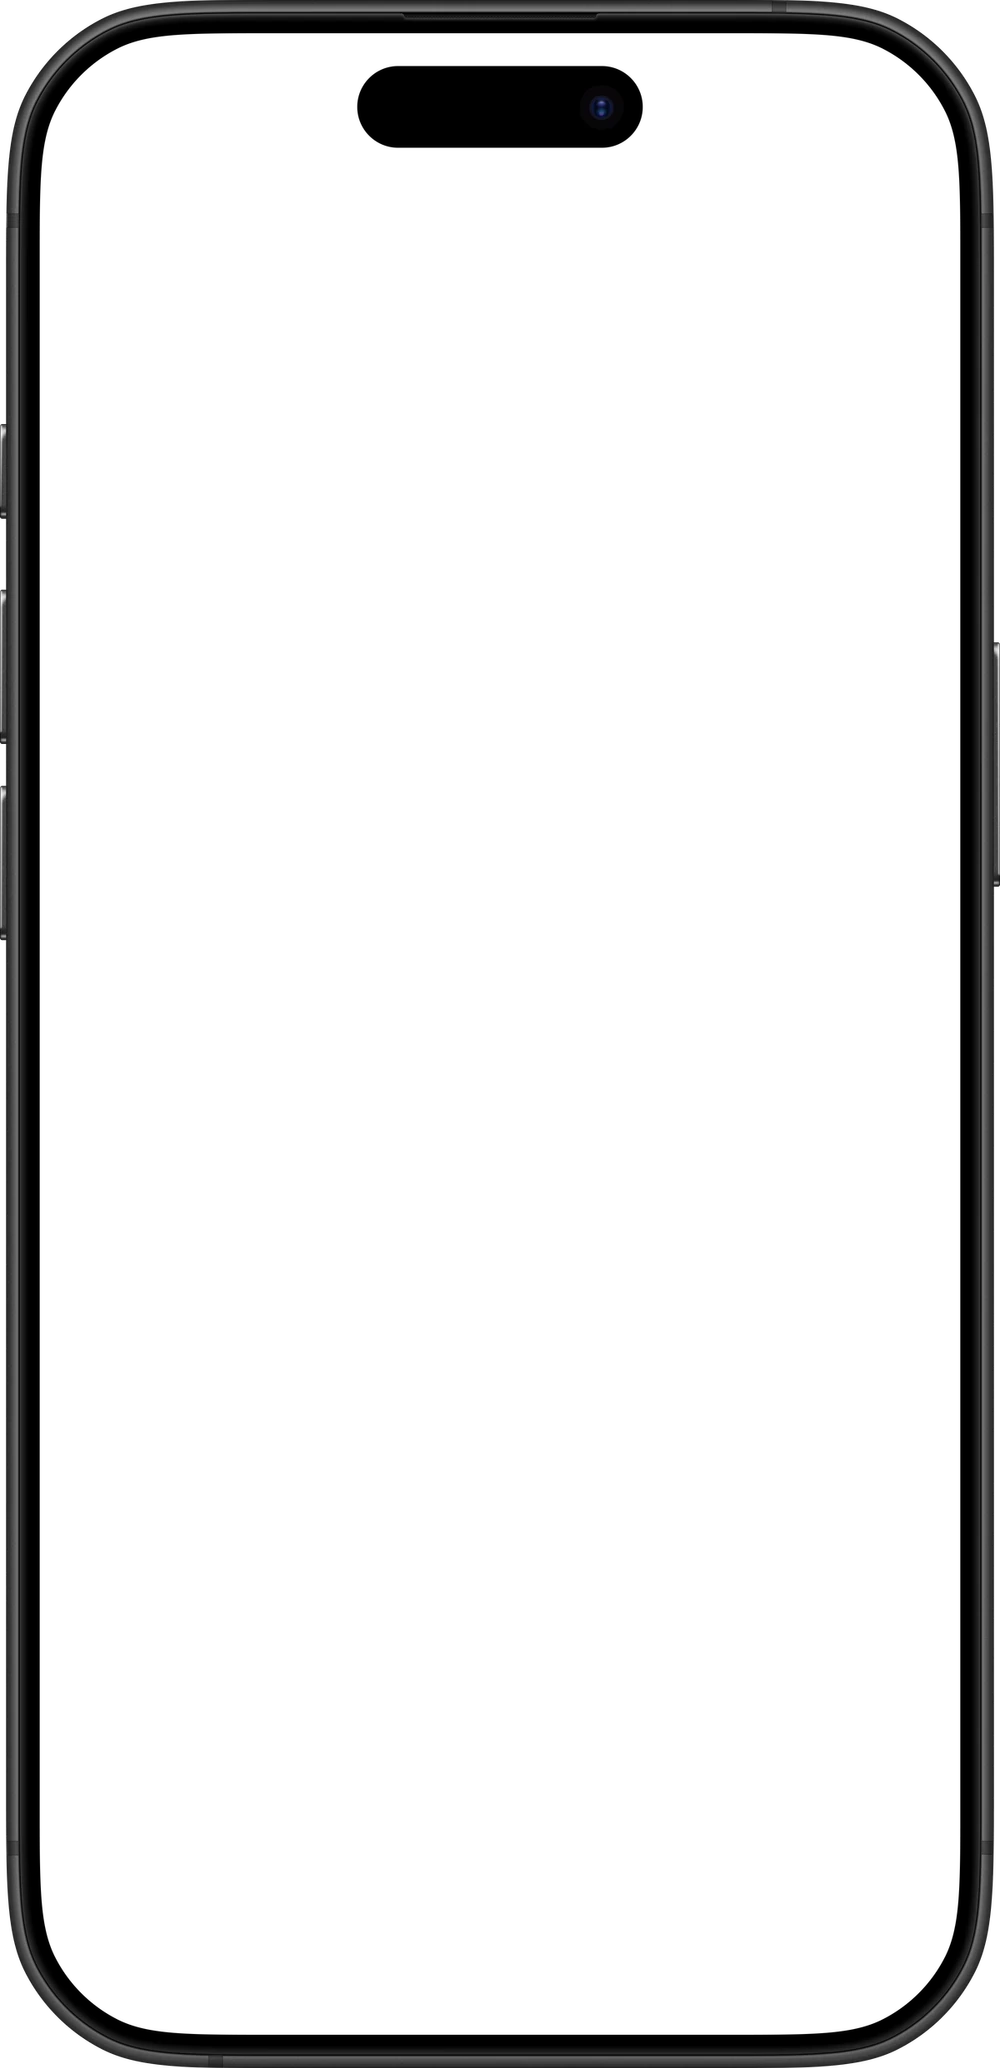
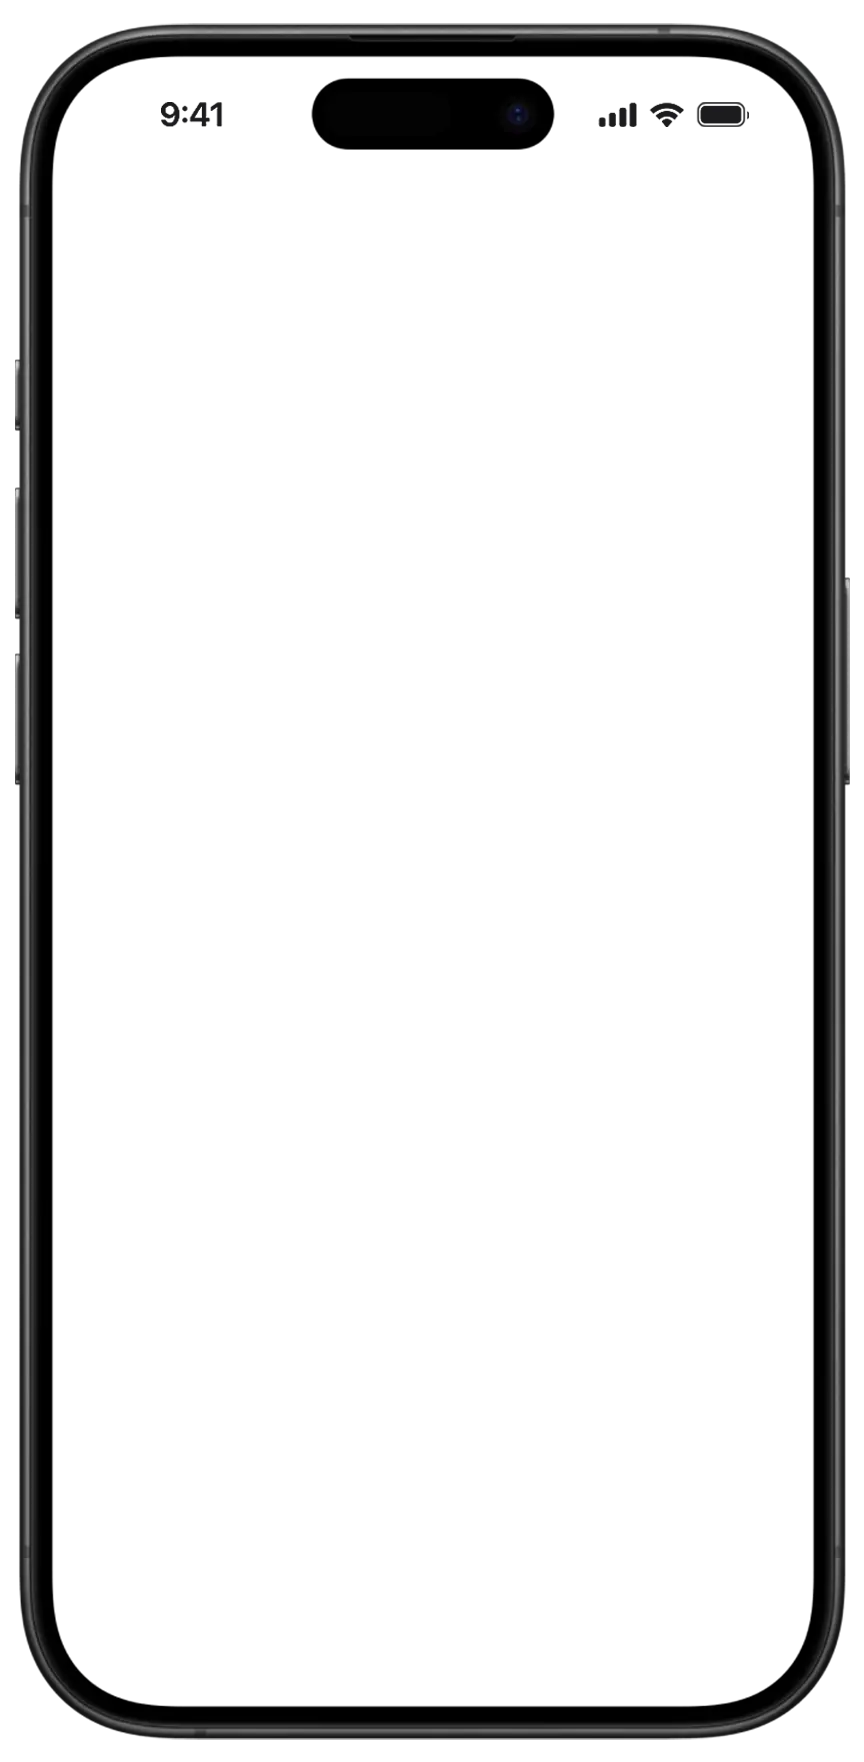
Restore habit phone frames and Jul 29 sizing/theme logic.
Revert agent-regenerated phonemockup assets (user-confirmed originals) and
bring back widget-theme frame switching with object-fit contain + % screen
radius. Keep pre-paint measure and always-expanded popup mount.

Changed region(s): [[0.0, 0.0, 1.0, 1.0]]

diff --git a/components/PhoneEmbed.tsx b/components/PhoneEmbed.tsx
@@ -1,62 +1,67 @@
 "use client";
 
-import { useLayoutEffect, useRef, useState } from "react";
+import { useEffect, useRef, useState } from "react";
 import { useDialKit } from "dialkit";
 import HabitTrackerApp from "@/components/embeds/habit-tracker/HabitTrackerApp";
+// Static imports (not plain "/phonemockup-*.webp" string paths) so Next.js
+// content-hashes the served filename — a plain public/ path never changes
+// URL even if the file's bytes are replaced, so a browser that ever cached
+// the old version keeps serving it forever. Hashed imports make any future
+// asset swap automatically bust every client's cache.
 import phoneFrameLight from "@/public/phonemockup-light.webp";
 import phoneFrameDark from "@/public/phonemockup-dark.webp";
-import {
-  PHONE_CONTENT_W,
-  PHONE_DIAL_DEFAULTS,
-  PHONE_H_BASE,
-  PHONE_REF_H,
-  PHONE_REF_W,
-  PHONE_W_BASE,
-  phoneScreenMetrics,
-} from "@/lib/phoneChrome";
 
-function readSiteTheme(): "light" | "dark" {
-  if (typeof document === "undefined") return "light";
-  return document.documentElement.getAttribute("data-theme") === "dark" ? "dark" : "light";
-}
+// Phone-frame chrome + screen-cutout math, restored from the pre-port iframe
+// version of this component (same dial key/names, so any previously-tuned
+// values carry over) — only what's INSIDE the screen cutout changed: a fixed
+// iframe viewport swapped for a fixed native design box holding HabitTrackerApp.
+const REF_W_BASE = 344;
+const REF_H_BASE = 614;
+const PHONE_W_BASE = 280;
+const PHONE_H_BASE = 580;
+// Design box HabitTrackerApp renders at before being scaled into the screen
+// cutout — matches the old iframe's own viewport size (394×844), which is
+// also a near-perfect fit for the widget's own max-w-[393px] content.
+const CONTENT_W = 394;
 
-export default function PhoneEmbed({
-  style,
-  expanded = false,
-  initialTheme,
-  onWidgetThemeChange,
-}: {
-  style?: React.CSSProperties;
-  expanded?: boolean;
-  initialTheme?: "light" | "dark";
-  onWidgetThemeChange?: (theme: "light" | "dark") => void;
-}) {
+export default function PhoneEmbed({ style, expanded = false, onWidgetThemeChange }: { style?: React.CSSProperties; expanded?: boolean; onWidgetThemeChange?: (theme: 'light' | 'dark') => void }) {
   const containerRef = useRef<HTMLDivElement>(null);
-  const [containerSize, setContainerSize] = useState<{ width: number; height: number } | null>(null);
-  const [widgetTheme, setWidgetTheme] = useState<"light" | "dark">(
-    () => initialTheme ?? readSiteTheme(),
-  );
-  const handleWidgetThemeChange = (theme: "light" | "dark") => {
+  const [containerSize, setContainerSize] = useState({ width: REF_W_BASE, height: REF_H_BASE });
+  // The frame follows the HABIT TRACKER WIDGET's own internal theme toggle
+  // (reported up via HabitTrackerApp's onThemeChange), not the site's theme —
+  // the two are deliberately decoupled (see HabitTrackerApp.tsx's own
+  // comment), and the frame has to agree with whatever the screen content
+  // inside it is actually showing, not with the site chrome around it.
+  // Default 'light' matches HabitTrackerApp's own initial default.
+  const [widgetTheme, setWidgetTheme] = useState<'light' | 'dark'>('light');
+  const handleWidgetThemeChange = (theme: 'light' | 'dark') => {
     setWidgetTheme(theme);
     onWidgetThemeChange?.(theme);
   };
 
-  const dk = useDialKit("PhoneEmbed", PHONE_DIAL_DEFAULTS);
+  const dk = useDialKit("PhoneEmbed", {
+    // Scales the whole phone body (and its own max-size cap) up or down —
+    // the grid/popup slots have plenty of room the phone wasn't using before.
+    sizeScale:     [1.4, 0.5, 2.5, 0.05],
+    insetTop:      [3.07, 0, 15,  0.01],
+    insetBottom:   [3.64, 0, 15,  0.01],
+    insetSide:     [3.3,  0, 15,  0.01],
+    screenRadius:  [12.86, 0, 25, 0.01],
+    iframeOffsetX: [0,   -10, 10, 0.01],
+    iframeOffsetY: [-0.41, -10, 10, 0.01],
+  });
 
   const popupBoost = expanded ? 1.28 : 1;
   const PHONE_W = PHONE_W_BASE * dk.sizeScale * popupBoost;
   const PHONE_H = PHONE_H_BASE * dk.sizeScale * popupBoost;
-  const REF_W = expanded ? PHONE_W : PHONE_REF_W * dk.sizeScale;
-  const REF_H = expanded ? PHONE_H : PHONE_REF_H * dk.sizeScale;
+  // Tight reference box in popup so scale-to-fit uses the full slot instead of
+  // leaving ~20% dead margin (REF was intentionally larger than the phone body).
+  const REF_W = expanded ? PHONE_W : REF_W_BASE * dk.sizeScale;
+  const REF_H = expanded ? PHONE_H : REF_H_BASE * dk.sizeScale;
 
-  useLayoutEffect(() => {
+  useEffect(() => {
     const el = containerRef.current;
     if (!el) return;
-    const apply = () => {
-      const r = el.getBoundingClientRect();
-      setContainerSize({ width: r.width, height: r.height });
-    };
-    apply();
     const ro = new ResizeObserver(([e]) =>
       setContainerSize({ width: e.contentRect.width, height: e.contentRect.height }),
     );
@@ -64,76 +69,46 @@ export default function PhoneEmbed({
     return () => ro.disconnect();
   }, []);
 
-  const measured = containerSize !== null;
-  const cw = containerSize?.width ?? REF_W;
-  const ch = containerSize?.height ?? REF_H;
-  const phoneScale = Math.min(Math.min(cw, REF_W) / REF_W, ch / REF_H);
+  const scaledRefW = REF_W;
+  const scaleByW = Math.min(containerSize.width, scaledRefW) / REF_W;
+  const scaleByH = containerSize.height / REF_H;
+  const phoneScale = Math.min(scaleByW, scaleByH);
 
-  const { screenRadiusPx, contentH, contentScale } = phoneScreenMetrics(
-    PHONE_W,
-    PHONE_H,
-    dk.insetTop,
-    dk.insetBottom,
-    dk.insetSide,
-    dk.screenRadius,
-  );
+  const screenLocalW = PHONE_W * (1 - (dk.insetSide * 2) / 100);
+  const screenLocalH = PHONE_H * (1 - dk.insetTop / 100 - dk.insetBottom / 100);
+  // Match content canvas height to the screen cutout aspect ratio so scaling
+  // by width also fills height — avoids the black bezel gap below the app.
+  const contentH = Math.ceil(CONTENT_W * (screenLocalH / screenLocalW));
+  const contentScale = screenLocalW / CONTENT_W;
 
-  const frameSrc = widgetTheme === "dark" ? phoneFrameDark.src : phoneFrameLight.src;
-
-  // Warm both frame assets so widget theme toggles don't flash or reflow.
-  useLayoutEffect(() => {
-    const light = new Image();
-    light.src = phoneFrameLight.src;
-    const dark = new Image();
-    dark.src = phoneFrameDark.src;
-  }, []);
+  const frameSrc = widgetTheme === 'dark' ? phoneFrameDark.src : phoneFrameLight.src;
 
   return (
     <div
       ref={containerRef}
-      style={{
-        position: "relative",
-        width: "100%",
-        height: "100%",
-        maxWidth: REF_W,
-        margin: "0 auto",
-        ...style,
-        opacity: measured ? 1 : 0,
-      }}
+      style={{ position: "relative", width: "100%", height: "100%", maxWidth: scaledRefW, margin: "0 auto", ...style }}
     >
-      <div
-        style={{
-          position: "absolute",
-          top: "50%",
-          left: "50%",
-          width: PHONE_W,
-          height: PHONE_H,
-          transform: `translate(-50%, -50%) scale(${phoneScale})`,
-          transformOrigin: "center center",
-        }}
-      >
-        <div
-          style={{
-            position: "absolute",
-            zIndex: 1,
-            top: `${dk.insetTop}%`,
-            bottom: `${dk.insetBottom}%`,
-            left: `${dk.insetSide}%`,
-            right: `${dk.insetSide}%`,
-            borderRadius: screenRadiusPx,
-            overflow: "hidden",
-            background: "#000",
-            // Keep child radii clipped correctly under transform.
-            isolation: "isolate",
-          }}
-        >
+      {/* Phone body */}
+      <div style={{
+        position: "absolute", top: "50%", left: "50%",
+        width: PHONE_W, height: PHONE_H,
+        transform: `translate(-50%, -50%) scale(${phoneScale})`,
+        transformOrigin: "center center",
+      }}>
+        {/* Screen cutout */}
+        <div style={{
+          position: "absolute", zIndex: 1,
+          top: `${dk.insetTop}%`, bottom: `${dk.insetBottom}%`,
+          left: `${dk.insetSide}%`, right: `${dk.insetSide}%`,
+          borderRadius: `${dk.screenRadius}%`,
+          overflow: "hidden", background: "#000",
+        }}>
           <div
             style={{
               position: "absolute",
               top: `${dk.iframeOffsetY}%`,
               left: `${dk.iframeOffsetX}%`,
-              width: PHONE_CONTENT_W,
-              height: contentH,
+              width: CONTENT_W, height: contentH,
               transform: `scale(${contentScale})`,
               transformOrigin: "top left",
             }}
@@ -142,23 +117,14 @@ export default function PhoneEmbed({
           </div>
         </div>
 
+        {/* Phone frame PNG */}
         <img
-          src={frameSrc}
-          alt=""
-          decoding="async"
-          draggable={false}
+          src={frameSrc} alt=""
           style={{
-            position: "absolute",
-            top: 0,
-            left: 0,
-            width: "100%",
-            height: "100%",
-            // Assets are full-bleed at the same aspect as PHONE_W×PHONE_H —
-            // contain + identical canvases keeps light/dark chrome locked.
-            objectFit: "contain",
-            zIndex: 2,
-            pointerEvents: "none",
-            userSelect: "none",
+            position: "absolute", top: 0, left: 0,
+            width: "100%", height: "100%",
+            objectFit: "contain", zIndex: 2,
+            pointerEvents: "none", userSelect: "none",
           }}
         />
       </div>

diff --git a/components/PhonePoster.tsx b/components/PhonePoster.tsx
@@ -4,24 +4,26 @@ import { useEffect, useRef, useState } from "react";
 import { useDialKit } from "dialkit";
 import { EASE_OPACITY, PANEL_DURATION } from "@/lib/motion";
 import HabitTrackerApp from "@/components/embeds/habit-tracker/HabitTrackerApp";
+// Static imports (see matching comment in PhoneEmbed.tsx) so Next.js
+// content-hashes the served filename instead of a plain public/ path that
+// never changes URL even when the file's bytes are swapped.
 import phoneFrameLight from "@/public/phonemockup-light.webp";
 import phoneFrameDark from "@/public/phonemockup-dark.webp";
-import {
-  PHONE_CONTENT_W,
-  PHONE_DIAL_DEFAULTS,
-  PHONE_H_BASE,
-  PHONE_REF_H,
-  PHONE_REF_W,
-  PHONE_W_BASE,
-  phoneScreenMetrics,
-} from "@/lib/phoneChrome";
 
+const PHONE_W_BASE = 280;
+const PHONE_H_BASE = 580;
+const CONTENT_W = 394;
 const EASE_CSS = `cubic-bezier(${EASE_OPACITY.join(", ")})`;
 
 /**
- * Grid-tile stand-in for Dumb Habit Tracker.
- * Same chrome geometry as PhoneEmbed so light/dark frame swaps never shift
- * size or clip the screen radii differently.
+ * Grid-tile stand-in while the live PhoneEmbed is portaled into the modal.
+ * Matches PhoneEmbed's scale-to-fit math, and when `showScreen` is on, renders
+ * a non-interactive HabitTrackerApp clone in the screen cutout so the card
+ * doesn't flash an empty black bezel while the live instance is in the popup.
+ *
+ * `fade` is only for the close crossfade (poster → live). On open, opacity
+ * must snap to 1 with fade=false so the card behind the modal blur doesn't
+ * briefly empty out while the live phone is hidden/portaled.
  */
 export default function PhonePoster({
   opacity = 1,
@@ -35,9 +37,19 @@ export default function PhonePoster({
   showScreen?: boolean;
 }) {
   const containerRef = useRef<HTMLDivElement>(null);
-  const [containerSize, setContainerSize] = useState({ width: PHONE_REF_W, height: PHONE_REF_H });
+  const [containerSize, setContainerSize] = useState({ width: PHONE_W_BASE, height: PHONE_H_BASE });
 
-  const dk = useDialKit("PhoneEmbed", PHONE_DIAL_DEFAULTS);
+  // Same "PhoneEmbed" dial key as the live component, so the poster always
+  // matches its size exactly.
+  const dk = useDialKit("PhoneEmbed", {
+    sizeScale: [1.4, 0.5, 2.5, 0.05],
+    insetTop: [3.07, 0, 15, 0.01],
+    insetBottom: [3.64, 0, 15, 0.01],
+    insetSide: [3.3, 0, 15, 0.01],
+    screenRadius: [12.86, 0, 25, 0.01],
+    iframeOffsetX: [0, -10, 10, 0.01],
+    iframeOffsetY: [-0.41, -10, 10, 0.01],
+  });
   const PHONE_W = PHONE_W_BASE * dk.sizeScale;
   const PHONE_H = PHONE_H_BASE * dk.sizeScale;
 
@@ -51,21 +63,12 @@ export default function PhonePoster({
     return () => ro.disconnect();
   }, []);
 
-  const REF_W = PHONE_REF_W * dk.sizeScale;
-  const REF_H = PHONE_REF_H * dk.sizeScale;
-  const scale = Math.min(
-    Math.min(containerSize.width, REF_W) / REF_W,
-    containerSize.height / REF_H,
-  );
+  const scale = Math.min(containerSize.width / PHONE_W, containerSize.height / PHONE_H);
 
-  const { screenRadiusPx, contentH, contentScale } = phoneScreenMetrics(
-    PHONE_W,
-    PHONE_H,
-    dk.insetTop,
-    dk.insetBottom,
-    dk.insetSide,
-    dk.screenRadius,
-  );
+  const screenLocalW = PHONE_W * (1 - (dk.insetSide * 2) / 100);
+  const screenLocalH = PHONE_H * (1 - dk.insetTop / 100 - dk.insetBottom / 100);
+  const contentH = Math.ceil(CONTENT_W * (screenLocalH / screenLocalW));
+  const contentScale = screenLocalW / CONTENT_W;
 
   const frameSrc = theme === "dark" ? phoneFrameDark.src : phoneFrameLight.src;
 
@@ -85,15 +88,7 @@ export default function PhonePoster({
         transition: fade ? `opacity ${PANEL_DURATION.embed.enter}s ${EASE_CSS}` : "none",
       }}
     >
-      <div
-        style={{
-          position: "relative",
-          width: PHONE_W,
-          height: PHONE_H,
-          flexShrink: 0,
-          transform: `scale(${scale})`,
-        }}
-      >
+      <div style={{ position: "relative", width: PHONE_W, height: PHONE_H, flexShrink: 0, transform: `scale(${scale})` }}>
         <div
           style={{
             position: "absolute",
@@ -102,10 +97,9 @@ export default function PhonePoster({
             bottom: `${dk.insetBottom}%`,
             left: `${dk.insetSide}%`,
             right: `${dk.insetSide}%`,
-            borderRadius: screenRadiusPx,
+            borderRadius: `${dk.screenRadius}%`,
             overflow: "hidden",
             background: "#000",
-            isolation: "isolate",
           }}
         >
           {showScreen && (
@@ -114,7 +108,7 @@ export default function PhonePoster({
                 position: "absolute",
                 top: `${dk.iframeOffsetY}%`,
                 left: `${dk.iframeOffsetX}%`,
-                width: PHONE_CONTENT_W,
+                width: CONTENT_W,
                 height: contentH,
                 transform: `scale(${contentScale})`,
                 transformOrigin: "top left",
@@ -127,8 +121,6 @@ export default function PhonePoster({
         <img
           src={frameSrc}
           alt=""
-          decoding="async"
-          draggable={false}
           style={{
             position: "absolute",
             top: 0,
